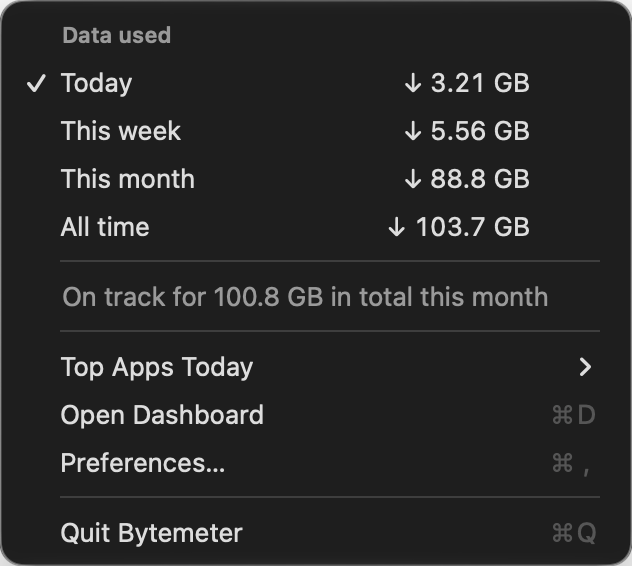
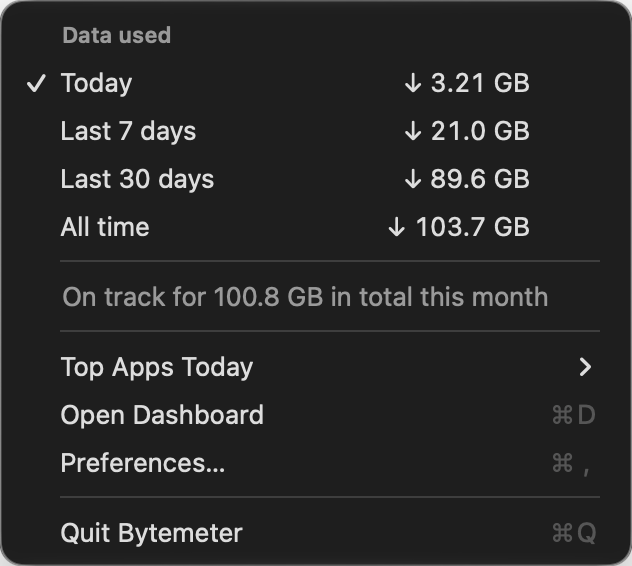
The menu and the right-click cycle go to Tokenmeter's four periods
Today, Last 7 days, Last 30 days and All time, so both apps' menus read
alike. The calendar week and month stay on the dashboard, and the month
line still projects the month or billing cycle. A saved week or month
comes back as the last 7 or 30 days. The social preview, the menu picture
and the hero follow, and MAINTENANCE records why the period rows are
standard items, for the Tokenmeter build to copy.

diff --git a/Sources/BytemeterSelfTest/FigureChecks.swift b/Sources/BytemeterSelfTest/FigureChecks.swift
@@ -55,12 +55,16 @@ func checkTopTalkersRankByTotal() {
 // MARK: - Menu bar mode cycling
 
 func checkStatusModesCycle() {
-    expect(StatusMode.today.next, StatusMode.week, "clicking today gives this week")
-    expect(StatusMode.week.next, StatusMode.month, "clicking this week gives this month")
-    expect(StatusMode.month.next, StatusMode.allTime, "clicking this month gives all time")
+    expect(StatusMode.today.next, StatusMode.last7, "clicking today gives the last 7 days")
+    expect(StatusMode.last7.next, StatusMode.last30, "clicking the last 7 days gives the last 30 days")
+    expect(StatusMode.last30.next, StatusMode.allTime, "clicking the last 30 days gives all time")
     expect(StatusMode.allTime.next, StatusMode.today, "clicking all time comes back to today")
     expect(StatusMode.allCases.count, 4, "four positions in the cycle")
-    expect(StatusMode(rawValue: "month"), StatusMode.month, "the saved mode round trips")
+    expect(StatusMode(saved: StatusMode.last30.rawValue), StatusMode.last30, "the saved mode round trips")
+    // Up to 1.3.1 the cycle held this week and this month. A saved one must
+    // not fall back to today on upgrade, but to the rolling period nearest it.
+    expect(StatusMode(saved: "week"), StatusMode.last7, "a saved this week comes back as the last 7 days")
+    expect(StatusMode(saved: "month"), StatusMode.last30, "a saved this month comes back as the last 30 days")
     expect(StatusMode(saved: StatusMode.allTime.rawValue), StatusMode.allTime, "all time round trips through settings")
     expect(StatusMode(saved: "fortnight"), StatusMode.today, "an unknown saved mode falls back to today")
     expect(StatusMode(saved: nil), StatusMode.today, "no saved mode means today")
@@ -511,11 +515,11 @@ func checkAsOfAMomentMatchesThatMoment() {
 // MARK: - One set of headline figures, and the menu bar's figure is one of them
 
 func checkHeadlinesAreOneSet() {
-    // Traffic on four days, so today, this week, this month and all time all
-    // differ, and a row after the moment that none of them may count.
+    // Traffic on four days, so today, the last 7 days, the last 30 days and
+    // all time all differ, and a row after the moment that none of them may count.
     let db = makeDatabase()
     addTraffic(db, at: "2026-08-20T10:00", 7_000_000_000, 700_000_000)
-    addTraffic(db, at: "2026-10-02T09:00", 3_000_000_000, 300_000_000)    // a Friday: this month, not this week
+    addTraffic(db, at: "2026-09-25T09:00", 3_000_000_000, 300_000_000)    // the last 30 days, not the last 7
     addTraffic(db, at: "2026-10-06T14:00", 2_000_000_000, 200_000_000)
     addTraffic(db, at: "2026-10-08T08:30", 1_000_000_000, 100_000_000)
     addTraffic(db, at: "2026-10-08T15:00", 9_000_000_000, 900_000_000)    // after the moment
@@ -526,7 +530,7 @@ func checkHeadlinesAreOneSet() {
     let rows = lines.compactMap { line -> (label: String, down: String)? in
         if case let .period(_, label, down, _, _) = line { return (label, down) } else { return nil }
     }
-    expect(rows.map(\.label), ["Today", "This week", "This month", "All time"],
+    expect(rows.map(\.label), ["Today", "Last 7 days", "Last 30 days", "All time"],
            "the period rows are the four the menu bar cycles through, in its order")
     let download: [UInt64] = [1_000_000_000, 3_000_000_000, 6_000_000_000, 13_000_000_000]
     for (index, mode) in StatusMode.allCases.enumerated() where index < rows.count {
@@ -539,7 +543,7 @@ func checkHeadlinesAreOneSet() {
               "\(mode.label): worked out on its own, as the menu bar does, it is the same figure")
     }
     expect(headlines.figure(for: .allTime).since, london.parseLocal("2026-08-20T10:00"), "all time carries its start date")
-    check([StatusMode.today, .week, .month].allSatisfy { headlines.figure(for: $0).since == nil },
+    check([StatusMode.today, .last7, .last30].allSatisfy { headlines.figure(for: $0).since == nil },
           "and only all time carries one")
     let none = Aggregator(db: makeDatabase(), cal: london)
     let empty = Headlines.figure(for: .allTime, aggregator: none, now: now)
@@ -550,13 +554,11 @@ func checkHeadlinesAreOneSet() {
 // MARK: - The menu offers the four periods the menu bar cycles through
 
 func checkMenuOffersThePeriods() {
-    let offered = MenuModel.periods(current: .week, cal: london)
+    let offered = MenuModel.periods(current: .last7)
     expect(offered.map(\.mode), StatusMode.allCases, "the menu offers the periods in the order a right-click cycles them")
-    expect(offered.map(\.title), ["Today", "This week", "This month", "All time"], "each under the menu bar's own name for it")
+    expect(offered.map(\.title), ["Today", "Last 7 days", "Last 30 days", "All time"],
+           "each under the menu bar's own name for it, as Tokenmeter names them")
     expect(offered.map(\.chosen), [false, true, false, false], "and marks the one showing now, and only that")
-    let onACycle = MenuModel.periods(current: .month, cal: BytemeterCalendar(timeZone: london.calendar.timeZone, cycleStartDay: 15))
-    expect(onACycle.map(\.title), ["Today", "This week", "This cycle", "All time"], "on a billing cycle the month is offered as the cycle")
-    expect(onACycle.filter(\.chosen).map(\.mode), [.month], "and is the one marked when it is showing")
 }
 
 // MARK: - The menu is four periods, one ticked, in download only
@@ -602,14 +604,14 @@ func checkMenuIsFourPeriodsInDownload() {
     let tooltips = MenuModel.information(snapshot, options: menuOptions()).compactMap { line -> String?? in
         if case let .period(_, _, _, _, toolTip) = line { return toolTip } else { return nil }
     }
-    expect(tooltips, [nil, "From Monday", "From 1 Sep", "Since 25 Sep 2026 · 4.5 days counted"],
-           "the dates the rows used to carry are their tooltips")
+    expect(tooltips, [nil, "From 23 Sep", "From 31 Aug", "Since 25 Sep 2026 · 4.5 days counted"],
+           "each row's tooltip says where it starts, counting today as one of the days")
     let cycle = BytemeterCalendar(timeZone: london.calendar.timeZone, cycleStartDay: 15)
     let onACycle = MenuModel.information(MenuSnapshot(aggregator: Aggregator(db: db, cal: cycle), now: now),
-                                         options: menuOptions(statusMode: .month))
+                                         options: menuOptions(statusMode: .last30))
     check(onACycle.contains { line in
-        if case .period(.month, "This cycle", _, true, "From 15 Sep") = line { return true } else { return false }
-    }, "on a billing cycle the month row is the cycle, from its first day")
+        if case .period(.last30, "Last 30 days", _, true, "From 31 Aug") = line { return true } else { return false }
+    }, "a billing cycle does not move the rolling 30 days")
 
     // Top Apps Today: download only, by download, under plain names.
     let apps = MenuModel.topApps(snapshot, options: menuOptions())
@@ -751,9 +753,9 @@ func checkMenuBarFigureIsARunningTotal() {
 
     // Emptying a table outright is the one change SQLite makes without
     // reporting a row, so `exec`, and `run` for a delete, end the kept sum
-    // themselves. This month keeps its start whatever the table holds, so
-    // only that can end its sum.
-    func month() -> Totals { Headlines.figure(for: .month, aggregator: aggregator, now: now).totals }
+    // themselves. The last 30 days keep their start whatever the table
+    // holds, so only that can end their sum.
+    func month() -> Totals { Headlines.figure(for: .last30, aggregator: aggregator, now: now).totals }
     addTraffic(db, at: "2026-12-05T10:00", 9_000, 900)
     expect(month(), Totals(bytesIn: 9_000, bytesOut: 900), "the month has traffic before the table is emptied")
     try? db.exec("DELETE FROM samples;")

diff --git a/Sources/BytemeterCore/MenuModel.swift b/Sources/BytemeterCore/MenuModel.swift
@@ -39,7 +39,9 @@ public struct MenuApp: Equatable {
 /// dashboard and the menu bar show.
 public struct MenuSnapshot {
     public let today: Totals
-    public let thisWeek: Totals
+    public let last7: Totals
+    public let last30: Totals
+    /// For the cap, which counts the month or billing cycle.
     public let thisMonth: Totals
     /// Worded once, in `Headlines`, for the menu and the dashboard alike.
     public let projection: ProjectionWording
@@ -58,7 +60,8 @@ public struct MenuSnapshot {
         let cal = aggregator.cal
         let headlines = Headlines(aggregator: aggregator, now: now)
         today = headlines.today
-        thisWeek = headlines.thisWeek
+        last7 = headlines.last7
+        last30 = headlines.last30
         thisMonth = headlines.thisMonth
         projection = headlines.projection
         allTime = headlines.allTime
@@ -104,13 +107,8 @@ public enum MenuModel {
     /// cycles through them, each as the menu offers it, with the one showing
     /// now marked. The menu's rows are this choice, so it can be seen, and
     /// made from the keyboard or with VoiceOver, which a right-click cannot be.
-    /// On a billing cycle the month is called the cycle.
-    public static func periods(current: StatusMode, cal: BytemeterCalendar)
-        -> [(mode: StatusMode, title: String, chosen: Bool)] {
-        StatusMode.allCases.map { mode in
-            let title = mode == .month ? cal.cycleName : mode.label
-            return (mode, title, mode == current)
-        }
+    public static func periods(current: StatusMode) -> [(mode: StatusMode, title: String, chosen: Bool)] {
+        StatusMode.allCases.map { ($0, $0.label, $0 == current) }
     }
 
     /// Everything above the submenu and the commands, in order.
@@ -133,19 +131,19 @@ public enum MenuModel {
             lines.append(.warning("Counting has started: the first figures appear within a minute.", toolTip: nil))
         }
 
-        for period in periods(current: options.statusMode, cal: data.cal) {
+        for period in periods(current: options.statusMode) {
             let totals: Totals
             let toolTip: String?
             switch period.mode {
             case .today:
                 totals = data.today
                 toolTip = nil
-            case .week:
-                totals = data.thisWeek
-                toolTip = "From Monday"
-            case .month:
-                totals = data.thisMonth
-                toolTip = "From " + data.cal.dayLabel(data.cal.startOfCycle(data.now))
+            case .last7:
+                totals = data.last7
+                toolTip = "From " + data.cal.dayLabel(data.cal.startOfDay(data.now, offsetBy: -6))
+            case .last30:
+                totals = data.last30
+                toolTip = "From " + data.cal.dayLabel(data.cal.startOfDay(data.now, offsetBy: -29))
             case .allTime:
                 totals = data.allTime.totals
                 toolTip = data.allTime.since.map { "Since \(data.cal.dateLabel($0)) · \(data.allTime.daysText) counted" }

diff --git a/Sources/BytemeterSelfTest/AppChecks.swift b/Sources/BytemeterSelfTest/AppChecks.swift
@@ -274,7 +274,7 @@ private func checkStatusTooltipOnlyUnderThePointer() {
     let second = StatusTooltip.text(mode: .today, totals: Totals(bytesIn: 9_750_000_000, bytesOut: 291_000_000),
                                     since: nil, calendar: london)
     expect(first, "Bytemeter: Today. Down 9.75 GB, up 290 MB. Click for the menu. Right-click, two-finger click "
-                  + "or Control-click to cycle today, week, month and all time.",
+                  + "or Control-click to cycle today, the last 7 days, the last 30 days and all time.",
            "the tooltip gives both figures and how to use the item")
     let since = london.parseLocal("2026-09-01T08:00")!
     check(StatusTooltip.text(mode: .allTime, totals: Totals(bytesIn: gb), since: since, calendar: london)
@@ -283,12 +283,9 @@ private func checkStatusTooltipOnlyUnderThePointer() {
     check(!StatusTooltip.text(mode: .today, totals: Totals(bytesIn: gb), since: since, calendar: london).contains("since"),
           "and no other period does")
     let cycle = BytemeterCalendar(timeZone: london.calendar.timeZone, cycleStartDay: 15)
-    check(StatusTooltip.text(mode: .month, totals: Totals(bytesIn: gb), since: nil, calendar: cycle)
-            .hasPrefix("Bytemeter: This cycle. "),
-          "on a billing cycle the month figure is called a cycle, as the menu calls it")
-    check(StatusTooltip.text(mode: .month, totals: Totals(bytesIn: gb), since: nil, calendar: london)
-            .hasPrefix("Bytemeter: This month. "),
-          "and a month otherwise")
+    check(StatusTooltip.text(mode: .last30, totals: Totals(bytesIn: gb), since: nil, calendar: cycle)
+            .hasPrefix("Bytemeter: Last 30 days. "),
+          "a billing cycle does not rename the rolling 30 days, which are not the cycle")
 
     var tooltip = StatusTooltip()
     expect(tooltip.pointerArrived(), nil, "before the first figures there is nothing to show")

diff --git a/Sources/BytemeterCore/StatusMode.swift b/Sources/BytemeterCore/StatusMode.swift
@@ -6,10 +6,12 @@ import Foundation
 ///
 /// It lives in the shared engine rather than the macOS app because an iOS
 /// sibling wants the same four, in the same order and with the same labels.
+/// They are Tokenmeter's four, so the two apps' menu bars read alike: the
+/// calendar week and month are on the dashboard.
 public enum StatusMode: String, CaseIterable {
     case today
-    case week
-    case month
+    case last7 = "last_7_days"
+    case last30 = "last_30_days"
     case allTime = "all_time"
 
     /// Short on purpose: this is the menu bar's text. The start date and the
@@ -17,8 +19,8 @@ public enum StatusMode: String, CaseIterable {
     public var label: String {
         switch self {
         case .today: return "Today"
-        case .week: return "This week"
-        case .month: return "This month"
+        case .last7: return "Last 7 days"
+        case .last30: return "Last 30 days"
         case .allTime: return "All time"
         }
     }
@@ -29,10 +31,16 @@ public enum StatusMode: String, CaseIterable {
         return all[(index + 1) % all.count]
     }
 
-    /// The mode saved in settings. Anything missing or unrecognised, such as
-    /// a value written by a later version, comes back as today rather than
-    /// failing.
+    /// The mode saved in settings. Up to 1.3.1 the four were today, the
+    /// calendar week and month, and all time, so a saved week or month comes
+    /// back as the rolling period nearest it. Anything missing or
+    /// unrecognised, such as a value written by a later version, comes back
+    /// as today rather than failing.
     public init(saved raw: String?) {
-        self = raw.flatMap(StatusMode.init(rawValue:)) ?? .today
+        switch raw {
+        case "week": self = .last7
+        case "month": self = .last30
+        default: self = raw.flatMap(StatusMode.init(rawValue:)) ?? .today
+        }
     }
 }

diff --git a/Sources/BytemeterCore/StatusTooltip.swift b/Sources/BytemeterCore/StatusTooltip.swift
@@ -28,16 +28,14 @@ public struct StatusTooltip {
     /// date that the menu bar text deliberately leaves out.
     public static func text(mode: StatusMode, totals: Totals, since: Date?,
                             calendar: BytemeterCalendar = BytemeterCalendar()) -> String {
-        // The month figure is the billing cycle's when one is set, so it is
-        // called a cycle, as the menu calls it.
-        var label = mode == .month ? calendar.cycleName : mode.label
+        var label = mode.label
         if mode == .allTime, let since {
             label += ", since " + calendar.dateLabel(since)
         }
         return "Bytemeter: \(label). "
             + "Down \(Units.bytes(totals.bytesIn)), up \(Units.bytes(totals.bytesOut)). "
             + "Click for the menu. Right-click, two-finger click or Control-click to cycle "
-            + "today, week, month and all time."
+            + "today, the last 7 days, the last 30 days and all time."
     }
 
     /// Offers the latest text, each time the figures are drawn. Returns the

diff --git a/Sources/BytemeterCore/Headlines.swift b/Sources/BytemeterCore/Headlines.swift
@@ -67,8 +67,8 @@ public struct Headlines {
         let cal = aggregator.cal
         switch mode {
         case .today: return (aggregator.runningTotals(cal.today(now), now: now), nil)
-        case .week: return (aggregator.runningTotals(cal.thisWeek(now), now: now), nil)
-        case .month: return (aggregator.runningTotals(cal.thisCycle(now), now: now), nil)
+        case .last7: return (aggregator.runningTotals(cal.rollingDays(7, now: now), now: now), nil)
+        case .last30: return (aggregator.runningTotals(cal.rollingDays(30, now: now), now: now), nil)
         case .allTime:
             guard let range = aggregator.allTimeRange(now: now) else { return (Totals(), nil) }
             return (aggregator.runningTotals(range, now: now), BytemeterCalendar.date(fromMinute: range.start))

diff --git a/Sources/Bytemeter/MenuRows.swift b/Sources/Bytemeter/MenuRows.swift
@@ -8,9 +8,9 @@ import AppKit
 /// view is drawn exactly as it is.
 ///
 /// The four period rows are standard items, because they are chosen, and
-/// AppKit sends a view item's action on neither Return nor a click (tested on
-/// macOS 27): as standard items Return, the tick, the highlight and VoiceOver
-/// are AppKit's own. Their figure sits at a right tab stop, and the views draw
+/// AppKit gives a view item no key events, so Return cannot choose one
+/// (tested on macOS 27): as standard items Return, the tick, the highlight and
+/// VoiceOver are AppKit's own. Their figure sits at a right tab stop, and the views draw
 /// to the same edge, so every figure lines up.
 ///
 /// Deliberately free of anything but AppKit, so the rows can be rendered on

diff --git a/Sources/BytemeterCore/Keys.swift b/Sources/BytemeterCore/Keys.swift
@@ -8,7 +8,7 @@ public enum StateKey {
     /// traffic that happened while it was not running.
     public static func rawCounter(_ iface: String) -> String { "raw:\(iface)" }
 
-    public static let statusMode = "status_mode"            // today, week, month or all_time
+    public static let statusMode = "status_mode"            // today, last_7_days, last_30_days or all_time; week and month up to 1.3.1
     public static let liveSpeed = "live_speed"              // the toggle the user flips
     public static let ssidCapture = "ssid_capture"          // off by default
     public static let perAppSampling = "per_app_sampling"   // on by default

diff --git a/Sources/Bytemeter/StatusItemController.swift b/Sources/Bytemeter/StatusItemController.swift
@@ -5,8 +5,8 @@ import BytemeterCore
 ///
 /// The status item shows one total. Clicking opens the menu, the way every
 /// other menu bar item behaves; right-click, a two-finger click or
-/// Control-click cycles the total through today, this week, this month and
-/// all time. Live speed is a separate toggle that sits alongside the total
+/// Control-click cycles the total through today, the last 7 days, the last 30
+/// days and all time. Live speed is a separate toggle that sits alongside the total
 /// rather than replacing it.
 final class StatusItemController: NSObject, NSMenuDelegate {
 

diff --git a/docs/art/social-preview.html b/docs/art/social-preview.html
@@ -33,8 +33,8 @@
     <div class="eyebrow">Today</div>
     <div class="figure"><b>3.21</b><i>GB</i></div>
     <div class="rows">
-      <div><span>This week</span><b>5.56 GB</b></div>
-      <div><span>This month</span><b>88.8 GB</b></div>
+      <div><span>Last 7 days</span><b>21.0 GB</b></div>
+      <div><span>Last 30 days</span><b>89.6 GB</b></div>
       <div class="ahead"><span>On track for</span><b>100.8 GB</b></div>
     </div>
   </div>

diff --git a/Sources/BytemeterSelfTest/Harness.swift b/Sources/BytemeterSelfTest/Harness.swift
@@ -198,8 +198,8 @@ extension Headlines {
     func figure(for mode: StatusMode) -> (totals: Totals, since: Date?) {
         switch mode {
         case .today: return (today, nil)
-        case .week: return (thisWeek, nil)
-        case .month: return (thisMonth, nil)
+        case .last7: return (last7, nil)
+        case .last30: return (last30, nil)
         case .allTime: return (allTime.totals, allTime.since)
         }
     }

diff --git a/README.md b/README.md
@@ -16,10 +16,10 @@ Totals in the menu bar, a dashboard with charts, a CSV export. Everything stays 
 </div>
 
 <p align="center">
-  <img src="docs/screenshots/hero.png" alt="The Bytemeter menu beside its dashboard: today, this week, this month and all time with today ticked, and where the month is heading, then today's download as one large figure with a chart of the day by hour" width="100%">
+  <img src="docs/screenshots/hero.png" alt="The Bytemeter menu beside its dashboard: today, the last 7 days, the last 30 days and all time with today ticked, and where the month is heading, then today's download as one large figure with a chart of the day by hour" width="100%">
 </p>
 
-Bytemeter sits in the menu bar and shows how much data your Mac has used today, this week, this month or since it started counting. Click it for the detail, or open the dashboard. It is written in Swift, has no dependencies, and makes no network requests of any kind: a tool that measures data use should not spend data.
+Bytemeter sits in the menu bar and shows how much data your Mac has used today, in the last 7 or 30 days, or since it started counting. Click it for the detail, or open the dashboard. It is written in Swift, has no dependencies, and makes no network requests of any kind: a tool that measures data use should not spend data.
 
 Every picture and clip on this page is the real app showing a generated month of invented traffic (`Scripts/make_demo_db.py`), not anyone's usage.
 
@@ -49,12 +49,12 @@ Both routes need macOS 13.5 or later and the Xcode Command Line Tools (`xcode-se
 <table>
 <tr>
 <td width="40%" valign="top">
-<img src="docs/screenshots/menu-totals.png" alt="The Bytemeter menu: Data used, then today, this week, this month and all time, each with its download and today ticked, the month-end projection, Top Apps Today, Open Dashboard, Preferences and Quit" width="100%">
+<img src="docs/screenshots/menu-totals.png" alt="The Bytemeter menu: Data used, then today, the last 7 days, the last 30 days and all time, each with its download and today ticked, the month-end projection, Top Apps Today, Open Dashboard, Preferences and Quit" width="100%">
 </td>
 <td valign="top">
 
-- **One figure, always in view.** Today, this week, this month or all time. Click its row in the menu, or right-click the figure to step through them. A live speed can sit beside it.
-- **Four totals, read in a glance.** Each row has one figure, its download, worked out from the same rows as the dashboard, so no two figures can disagree. Upload, the averages and the rest are on the dashboard.
+- **One figure, always in view.** Today, the last 7 days, the last 30 days or all time, the same four as Tokenmeter. Click its row in the menu, or right-click the figure to step through them. A live speed can sit beside it.
+- **Four totals, read in a glance.** Each row has one figure, its download, worked out from the same rows as the dashboard, so no two figures can disagree. This week, this month, upload, the averages and the rest are on the dashboard.
 - **Where the month is heading.** One line with a projection for the month's end, download and upload combined as a provider counts them.
 - **A monthly cap.** Set your allowance in GB and the day your billing cycle starts, and that line becomes what is used of the cap and how many days are left, over a bar.
 - **Top Apps Today.** The apps that downloaded the most today, under plain names, sampled with `nettop`, one click deeper.
